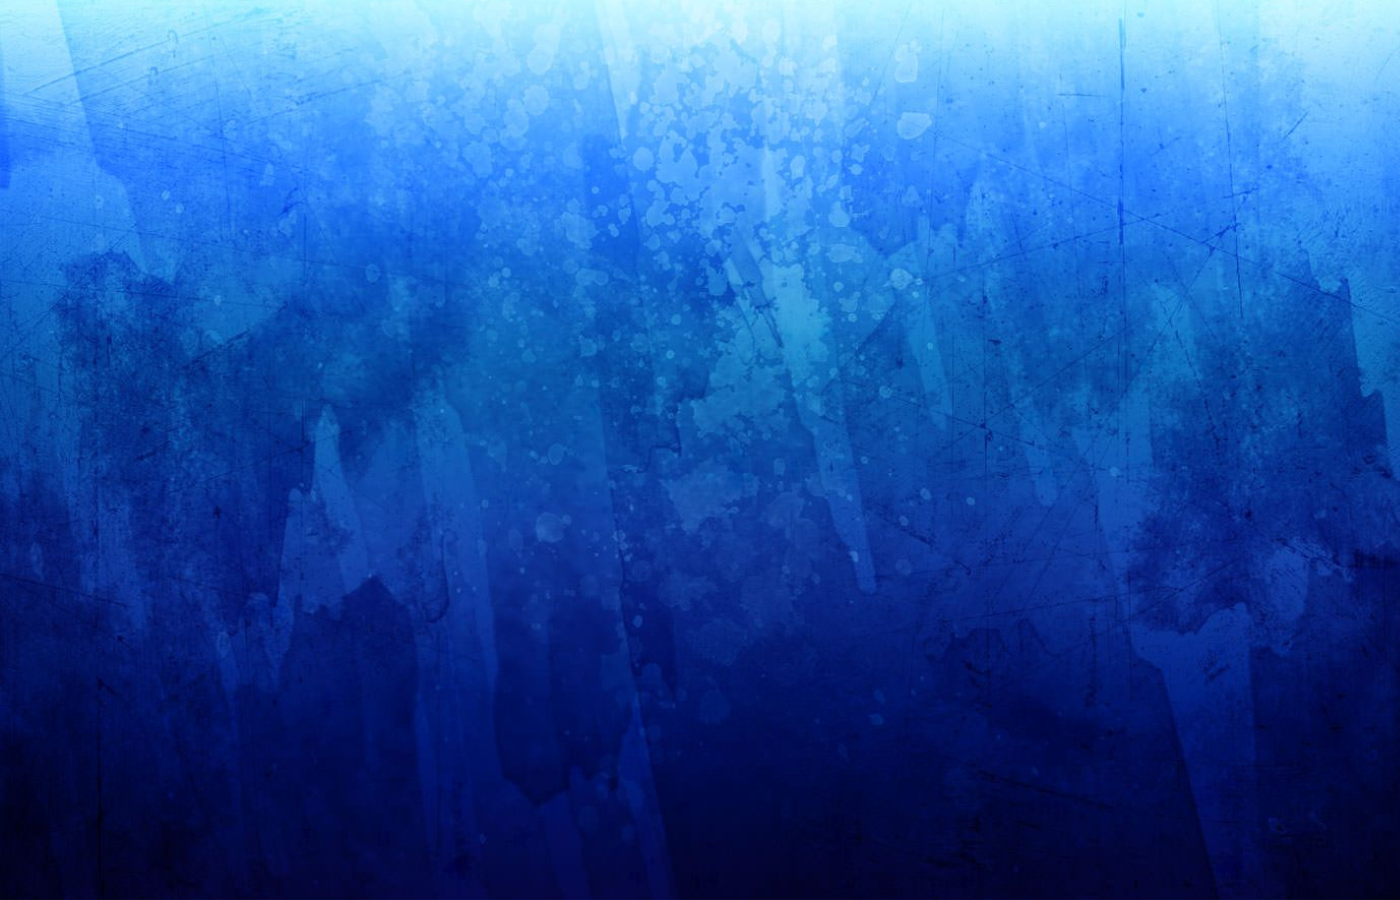
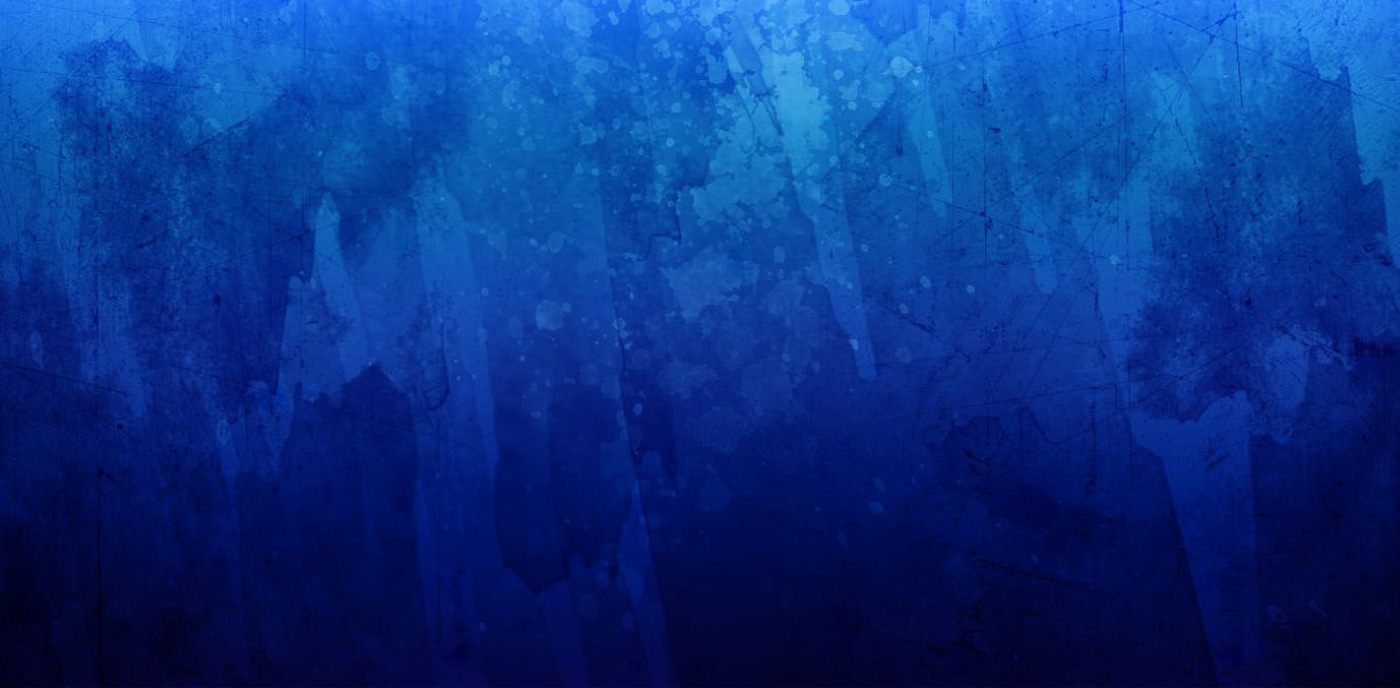
home responsive

diff --git a/style.css b/style.css
@@ -83,7 +83,7 @@ input[type=checkbox] {
   
     position: relative;
     /*background-image: url() no-repeat;*/
-    background: #666 url("/Assets/Web Backgorund desktop.png") no-repeat;
+    background: #666 url("./Assets/br.png") no-repeat;
     background-size: cover;
   
   
@@ -100,23 +100,46 @@ input[type=checkbox] {
     top: 60%;
     left: 50%;
     transform: translate(-50%, -50%);
-    
-    max-width: 35%; /* Ensure the image doesn't exceed the width of its container (the screen) */
-    height: auto; /* Maintain the aspect ratio */
+    max-width: 35%;
+    height: auto;
+    opacity: 0; /* Initially hide the image */
+    animation: slideFromBottom 1.5s ease-out forwards; /* Apply the animation */
   }
-
+  
+  @keyframes slideFromBottom {
+    0% {
+      top: 100%; /* Start from the bottom */
+      opacity: 0;
+    }
+    100% {
+      top: 60%; /* End at the specified top position */
+      opacity: 1;
+    }
+  }
+  
   .Title {
-    width: 80%;
-    text-align: center;
-    position: absolute;
-    top: 18.5%; /* Center vertically */
-    left: 50%; /* Center horizontally */
-    transform: translate(-50%, -50%); /* Center the div perfectly */
-    font-family: 'Lilita One', cursive;
-    color: #FFFFFF;
-    font-size: 120px;
-    line-height: 85%;
+  width: 80%;
+  text-align: center;
+  position: relative; /* Change to relative positioning */
+  top: -100px; /* Start from above the container */
+  left: 50%;
+  transform: translateX(-50%);
+  font-family: 'Lilita One', cursive;
+  color: #FFFFFF;
+  font-size: 120px;
+  line-height: 85%;
+  animation: slideFromTop 1.5s ease-out forwards; /* Apply the animation */
+}
+
+@keyframes slideFromTop {
+  0% {
+    top: -100px; /* Start from above the container */
   }
+  100% {
+    top: 18px; /* End at the specified top position */
+  }
+}
+
   
   .Title::before {
     content: "";
@@ -125,9 +148,9 @@ input[type=checkbox] {
     left: 0;
     right: 0;
     bottom: 0;
-    
     z-index: -1;
   }
+  
   
   
   
@@ -161,6 +184,34 @@ input[type=checkbox] {
   
     .hamburger {
       display: block;
+    }
+
+    .Title {
+      font-size: 70px;
+      animation: slideFromTop 1.5s ease-out forwards; /* Apply the animation */
+    }
+    @keyframes slideFromTop {
+      0% {
+        top: -100px; /* Start from above the container */
+      }
+      100% {
+        top: 32px; /* End at the specified top position */
+      }
+    }
+
+    .pill {
+      max-width: 80%;
+      animation: slideFromBottom 1.5s ease-out forwards; /* Apply the animation */
+    }
+    @keyframes slideFromBottom {
+      0% {
+        top: 100%; /* Start from the bottom */
+        opacity: 0;
+      }
+      100% {
+        top: 65%; /* End at the specified top position */
+        opacity: 1;
+      }
     }
   
     

diff --git a/index.html b/index.html
@@ -39,7 +39,7 @@
     </div>
     
     
-    <img src="/Assets/pill.png" alt="pill" class="pill">
+    <img src="./Assets/pill.png" alt="pill" class="pill">
    
    
  </section>
